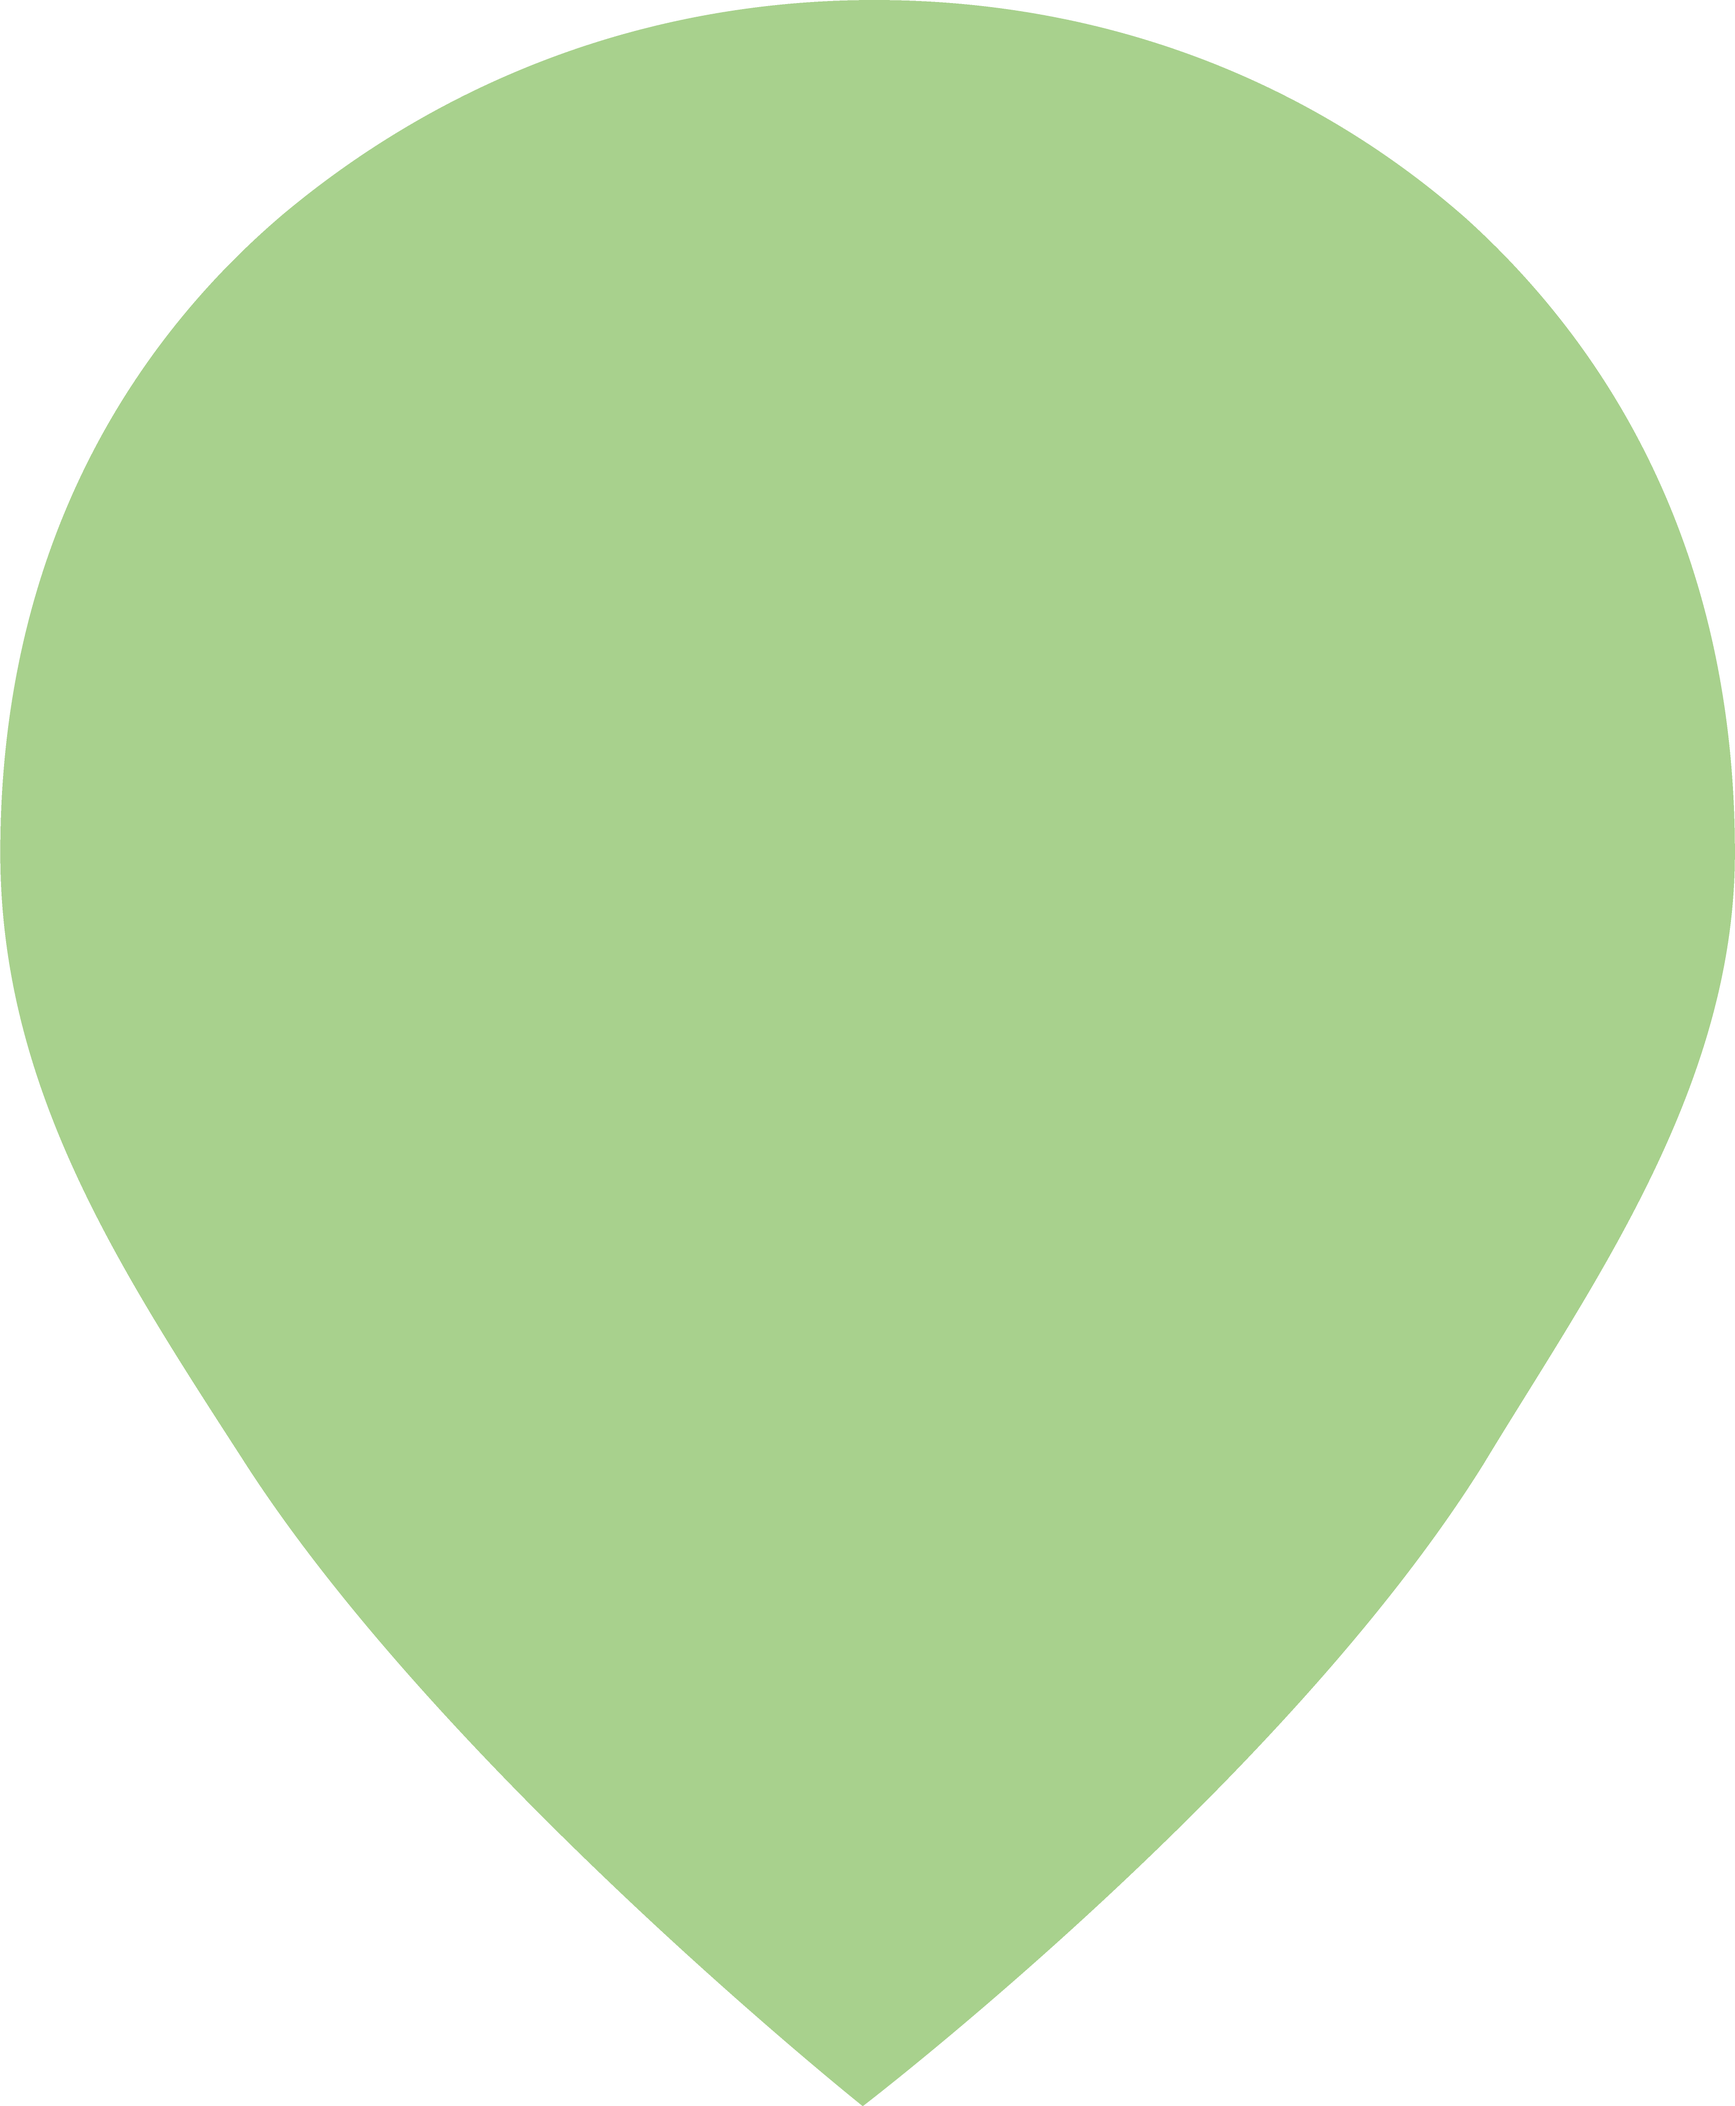
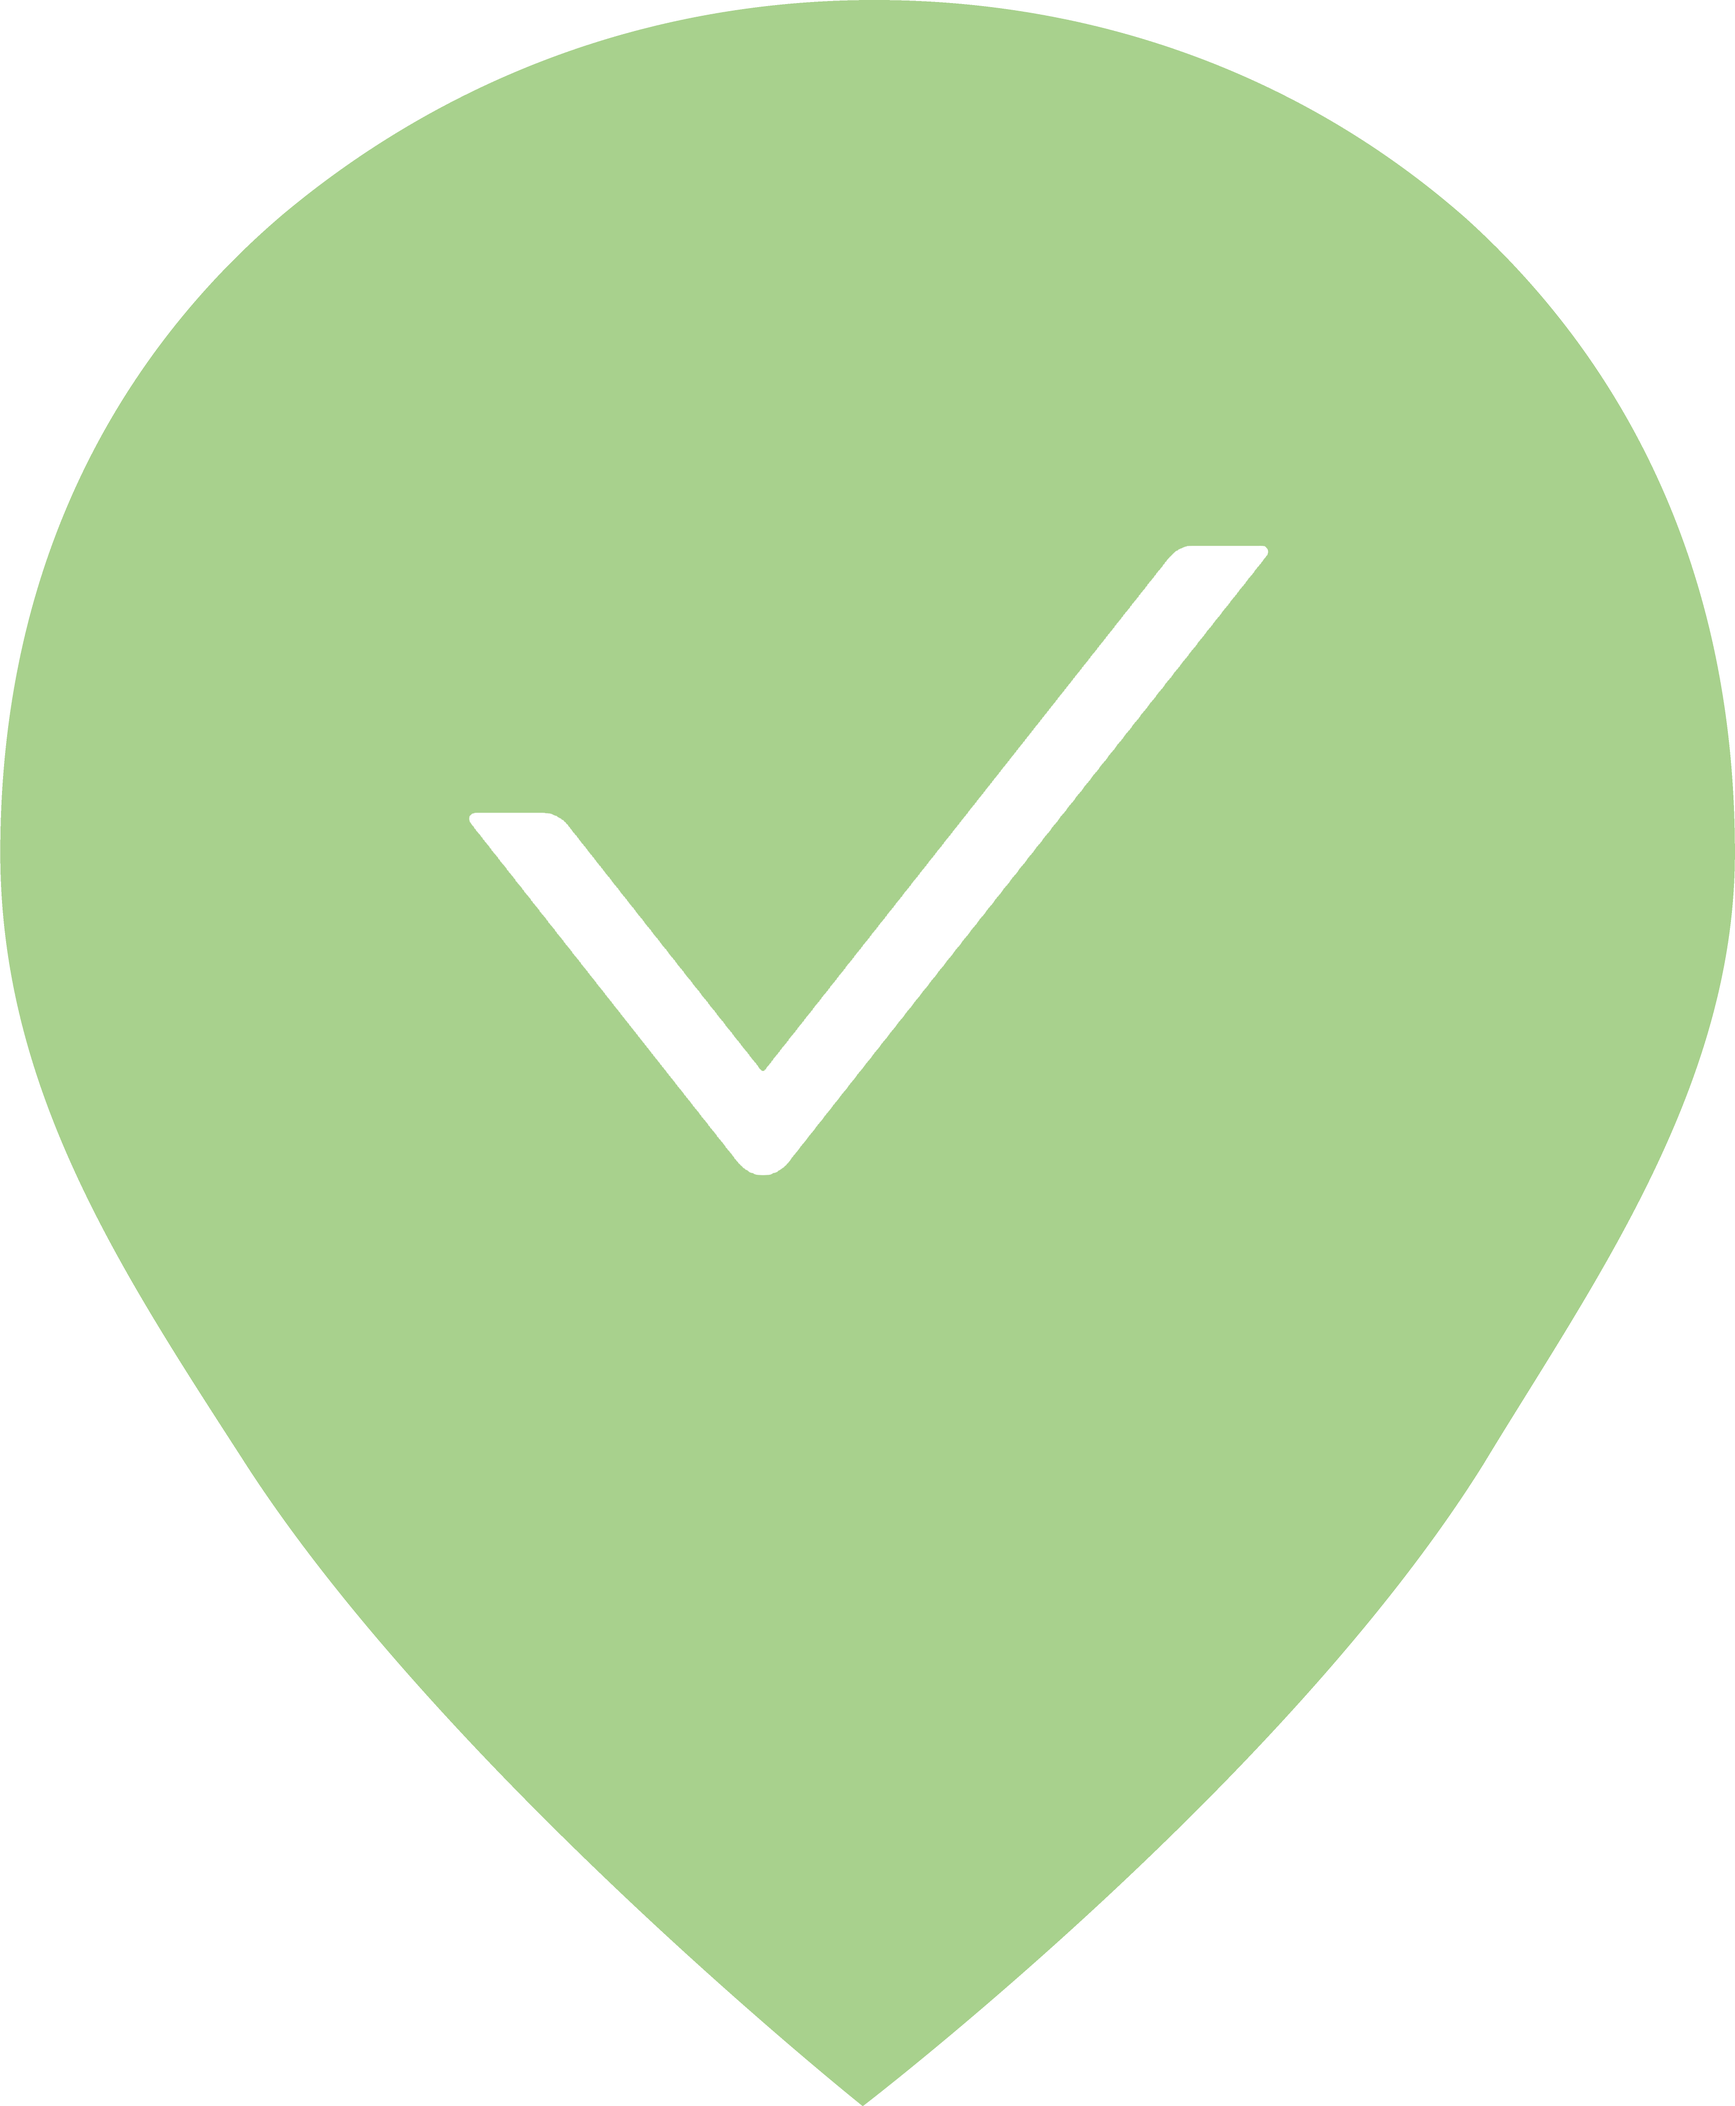
chore: adding checkin pin screen

Changed region(s): [[0.2789, 0.2486, 0.7436, 0.5592]]

diff --git a/packages/mobile/src/components/Checkin/Checkin.tsx b/packages/mobile/src/components/Checkin/Checkin.tsx
@@ -1,15 +1,16 @@
 import React, { useEffect, useState } from 'react';
-import { Text, View, Button } from 'react-native';
+import { Text, View, Button, Image } from 'react-native';
 import { useColorScheme } from 'react-native-appearance';
-import { Redirect } from '../../ReactRouter';
+import { Link, Redirect } from '../../ReactRouter';
 import { actionTypes } from '../../actions/constants';
 import { withState } from '../../store';
 import { SCP, Constants } from '../../../../connect/src';
 import { ParsedCode, Sources } from './dataParser';
 import Modal from 'react-native-modal';
-import { commonStyles } from '../commonStyles';
+import { styles, commonStyles } from './styles';
 import { MaterialIcons } from '@expo/vector-icons';
-import { RouteComponentProps } from 'react-router';
+import { RouteComponentProps, useHistory } from 'react-router';
+import MainLayout from '../common/MainLayout';
 
 const scp = new SCP();
 const isDev = process.env.NODE_ENV === 'development';
@@ -24,6 +25,7 @@ const Checkin = withState<RouteComponentProps<{
     }),
     ({ dispatch, localKey, match }) => {
 
+        const history = useHistory();
         const [isConnected, setIsConnected] = useState(false);
         const [redirect, setRedirect] = useState(false);
         const [venuInfo, setVenuInfo] = useState<ParsedCode>({
@@ -37,7 +39,8 @@ const Checkin = withState<RouteComponentProps<{
         const colorScheme = useColorScheme();
         const themeModalStyle = (colorScheme === 'light') || (colorScheme === 'no-preference') ? 'black' : 'white';
         const themeColorStyle = (colorScheme === 'light') || (colorScheme === 'no-preference') ? '#D3D3D3' : '#404040';
-        const themeTextStyle = (colorScheme === 'light') || (colorScheme === 'no-preference') ? 'white' : 'black';
+        const themeTextStyle = (colorScheme === 'light') || (colorScheme === 'no-preference') ? 'black' : 'white';
+        const themeLogoStyle = (colorScheme === 'light') || (colorScheme === 'no-preference') ? require('../../assets/logo.png') : require('../../assets/logo-white.png');
 
         useEffect(() => {
             async function connectBackend() {
@@ -90,24 +93,36 @@ const Checkin = withState<RouteComponentProps<{
         else
             composition =
                 <>
-                    <View>
-                        <Text style={{ fontSize: 24, color: themeTextStyle, paddingTop: 30 }}>Checking in...</Text>
+                    <View style={commonStyles.main}>
+                        <Text style={{ fontFamily: 'Poppins-Regular', fontSize: 20, color: themeTextStyle, top: 30 }}>Checkin in...</Text>
+                        <Image
+                            source={themeLogoStyle}
+                            resizeMode={'contain'}
+                            style={commonStyles.logo}
+                        />
+                        <Link to={'/scanner'} style={commonStyles.pinButton} underlayColor='transparent'>
+                            <Image
+                                source={require('../../assets/pin-checkin.png')}
+                                resizeMode={'contain'}
+                                style={commonStyles.pin}
+                            />
+                        </Link>
                     </View>
                 </>;
 
         return (
-            <>
+            <MainLayout showGoBack={false}>
                 <Modal isVisible={showModal}>
                     <View style={[commonStyles.modalContainer, { backgroundColor: themeColorStyle }]}>
                         <MaterialIcons name='error' size={84} color={themeModalStyle} />
                         <Text style={{ fontFamily: 'Poppins-Regular', fontSize: 16, color: themeModalStyle }}>
                             {error}
                         </Text>
-                        <Button title='Close' onPress={() => setShowModal(false)} />
+                        <Button title='Close' onPress={() => history.push('/')} />
                     </View>
                 </Modal>
                 {composition}
-            </>
+            </MainLayout>
         );
     }
 );

diff --git a/packages/mobile/src/components/Checkin/styles.ts b/packages/mobile/src/components/Checkin/styles.ts
@@ -1,6 +1,5 @@
-import { StyleSheet, Dimensions } from 'react-native';
+import { StyleSheet } from 'react-native';
+export { commonStyles } from '../commonStyles';
 
-const screen = Dimensions.get('screen');
-
-export default StyleSheet.create({
+export const styles = StyleSheet.create({
 });
